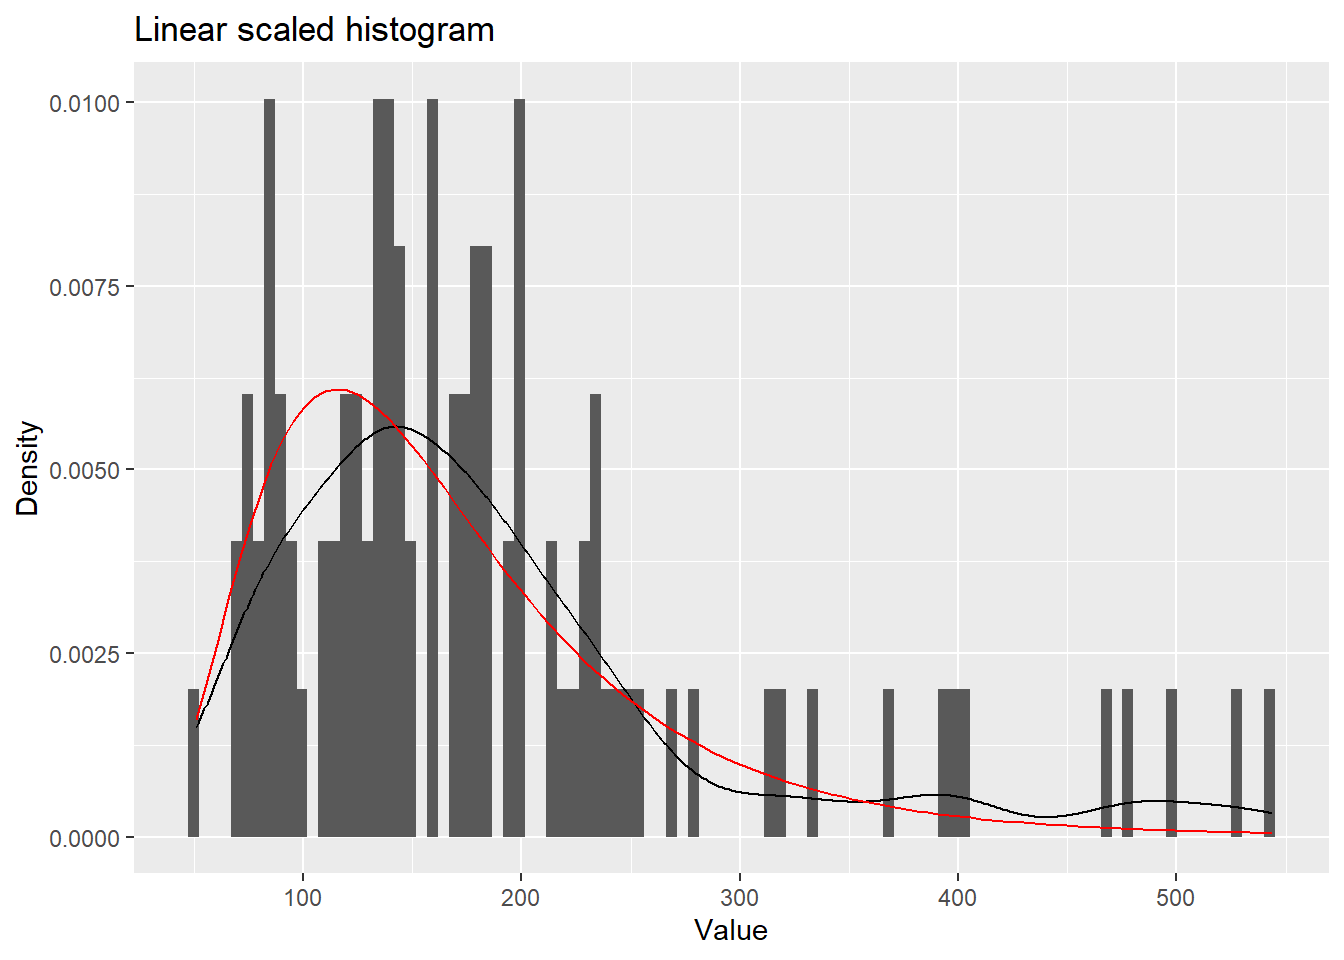
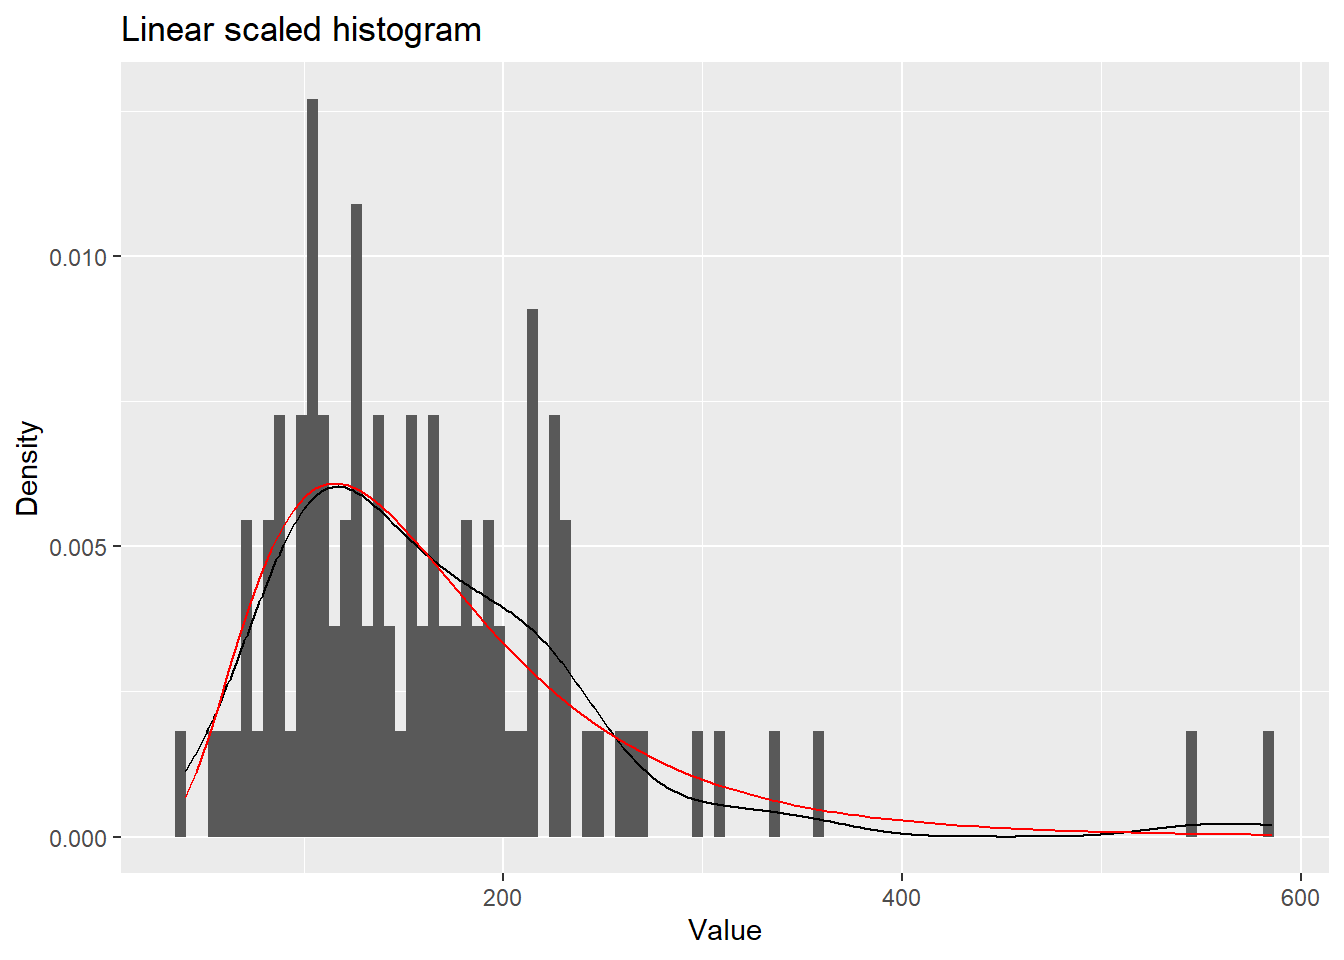
Modified the logarithmic scale histogram

diff --git a/Exercise1_ptB.html b/Exercise1_ptB.html
@@ -106,8 +106,8 @@ pre > code.sourceCode > span > a:first-child::before { text-decoration: underlin
 <div class="cell">
 <div class="sourceCode cell-code" id="cb2"><pre class="sourceCode r code-with-copy"><code class="sourceCode r"><span id="cb2-1"><a href="#cb2-1" aria-hidden="true" tabindex="-1"></a>sample <span class="ot">=</span> <span class="fu">rlnorm</span>(<span class="dv">100</span>, <span class="at">meanlog =</span> <span class="dv">5</span>, <span class="at">sdlog =</span> <span class="fl">0.5</span>)</span></code><button title="Copy to Clipboard" class="code-copy-button"><i class="bi"></i></button></pre></div>
 </div>
-<p>The mean of the sampled data is 185.1983996.</p>
-<p>The standard deviation of the sampled data is 104.2238982.</p>
+<p>The mean of the sampled data is 163.6318704.</p>
+<p>The standard deviation of the sampled data is 85.8959632.</p>
 </section>
 <section id="making-the-plots" class="level2">
 <h2 class="anchored" data-anchor-id="making-the-plots">Making the plots</h2>
@@ -135,29 +135,31 @@ pre > code.sourceCode > span > a:first-child::before { text-decoration: underlin
 </div>
 <p><strong>Logarithmic scale</strong></p>
 <div class="cell">
-<div class="sourceCode cell-code" id="cb5"><pre class="sourceCode r code-with-copy"><code class="sourceCode r"><span id="cb5-1"><a href="#cb5-1" aria-hidden="true" tabindex="-1"></a><span class="fu">ggplot</span>(df, <span class="fu">aes</span>(sample)) <span class="sc">+</span></span>
-<span id="cb5-2"><a href="#cb5-2" aria-hidden="true" tabindex="-1"></a>  <span class="fu">geom_histogram</span>(<span class="at">bins =</span> <span class="dv">100</span>, <span class="fu">aes</span>(<span class="at">y=</span><span class="fu">after_stat</span>(density))) <span class="sc">+</span> </span>
-<span id="cb5-3"><a href="#cb5-3" aria-hidden="true" tabindex="-1"></a>  <span class="fu">ggtitle</span>(<span class="st">"Logarithmic scaled histogram"</span>) <span class="sc">+</span> </span>
-<span id="cb5-4"><a href="#cb5-4" aria-hidden="true" tabindex="-1"></a>  <span class="fu">xlab</span>(<span class="st">"Value"</span>) <span class="sc">+</span> <span class="fu">ylab</span>(<span class="st">"Density"</span>) <span class="sc">+</span> </span>
-<span id="cb5-5"><a href="#cb5-5" aria-hidden="true" tabindex="-1"></a>  <span class="fu">annotation_logticks</span>(<span class="at">sides=</span><span class="st">'b'</span>) <span class="sc">+</span></span>
-<span id="cb5-6"><a href="#cb5-6" aria-hidden="true" tabindex="-1"></a>  <span class="fu">scale_x_continuous</span>(<span class="at">trans=</span><span class="st">'log'</span>)</span></code><button title="Copy to Clipboard" class="code-copy-button"><i class="bi"></i></button></pre></div>
+<div class="sourceCode cell-code" id="cb5"><pre class="sourceCode r code-with-copy"><code class="sourceCode r"><span id="cb5-1"><a href="#cb5-1" aria-hidden="true" tabindex="-1"></a>df<span class="sc">$</span>logCounts <span class="ot">&lt;-</span> <span class="fu">log10</span>(sample)</span></code><button title="Copy to Clipboard" class="code-copy-button"><i class="bi"></i></button></pre></div>
+</div>
+<div class="cell">
+<div class="sourceCode cell-code" id="cb6"><pre class="sourceCode r code-with-copy"><code class="sourceCode r"><span id="cb6-1"><a href="#cb6-1" aria-hidden="true" tabindex="-1"></a><span class="fu">ggplot</span>(df, <span class="fu">aes</span>(logCounts)) <span class="sc">+</span></span>
+<span id="cb6-2"><a href="#cb6-2" aria-hidden="true" tabindex="-1"></a>  <span class="fu">geom_histogram</span>(<span class="at">bins =</span> <span class="dv">100</span>) <span class="sc">+</span> </span>
+<span id="cb6-3"><a href="#cb6-3" aria-hidden="true" tabindex="-1"></a>  <span class="fu">ggtitle</span>(<span class="st">"Logarithmic scaled histogram"</span>) <span class="sc">+</span> </span>
+<span id="cb6-4"><a href="#cb6-4" aria-hidden="true" tabindex="-1"></a>  <span class="fu">xlab</span>(<span class="st">"Value"</span>) <span class="sc">+</span> <span class="fu">ylab</span>(<span class="st">"Count"</span>) <span class="sc">+</span> </span>
+<span id="cb6-5"><a href="#cb6-5" aria-hidden="true" tabindex="-1"></a>  <span class="fu">annotation_logticks</span>(<span class="at">sides=</span><span class="st">'b'</span>)</span></code><button title="Copy to Clipboard" class="code-copy-button"><i class="bi"></i></button></pre></div>
 <div class="cell-output-display">
-<p><img src="Exercise1_ptB_files/figure-html/unnamed-chunk-5-1.png" class="img-fluid" width="672"></p>
+<p><img src="Exercise1_ptB_files/figure-html/unnamed-chunk-6-1.png" class="img-fluid" width="672"></p>
 </div>
 </div>
 </section>
 <section id="violin-plot" class="level3">
 <h3 class="anchored" data-anchor-id="violin-plot">Violin Plot</h3>
 <div class="cell">
-<div class="sourceCode cell-code" id="cb6"><pre class="sourceCode r code-with-copy"><code class="sourceCode r"><span id="cb6-1"><a href="#cb6-1" aria-hidden="true" tabindex="-1"></a><span class="fu">ggplot</span>(df, <span class="fu">aes</span>(sample, <span class="dv">1</span>)) <span class="sc">+</span></span>
-<span id="cb6-2"><a href="#cb6-2" aria-hidden="true" tabindex="-1"></a>  <span class="fu">geom_violin</span>() <span class="sc">+</span> </span>
-<span id="cb6-3"><a href="#cb6-3" aria-hidden="true" tabindex="-1"></a>  <span class="fu">ggtitle</span>(<span class="st">"Violin plot"</span>) <span class="sc">+</span> </span>
-<span id="cb6-4"><a href="#cb6-4" aria-hidden="true" tabindex="-1"></a>  <span class="fu">xlab</span>(<span class="st">"Value"</span>) <span class="sc">+</span> <span class="fu">ylab</span>(<span class="st">"Frequency"</span>) <span class="sc">+</span> </span>
-<span id="cb6-5"><a href="#cb6-5" aria-hidden="true" tabindex="-1"></a>  <span class="fu">geom_boxplot</span>(<span class="at">width =</span> <span class="fl">0.1</span>) <span class="sc">+</span> </span>
-<span id="cb6-6"><a href="#cb6-6" aria-hidden="true" tabindex="-1"></a>  <span class="fu">theme</span>(<span class="at">axis.text.y =</span> <span class="fu">element_blank</span>(),</span>
-<span id="cb6-7"><a href="#cb6-7" aria-hidden="true" tabindex="-1"></a>        <span class="at">axis.ticks.y =</span> <span class="fu">element_blank</span>())</span></code><button title="Copy to Clipboard" class="code-copy-button"><i class="bi"></i></button></pre></div>
+<div class="sourceCode cell-code" id="cb7"><pre class="sourceCode r code-with-copy"><code class="sourceCode r"><span id="cb7-1"><a href="#cb7-1" aria-hidden="true" tabindex="-1"></a><span class="fu">ggplot</span>(df, <span class="fu">aes</span>(sample, <span class="dv">1</span>)) <span class="sc">+</span></span>
+<span id="cb7-2"><a href="#cb7-2" aria-hidden="true" tabindex="-1"></a>  <span class="fu">geom_violin</span>() <span class="sc">+</span> </span>
+<span id="cb7-3"><a href="#cb7-3" aria-hidden="true" tabindex="-1"></a>  <span class="fu">ggtitle</span>(<span class="st">"Violin plot"</span>) <span class="sc">+</span> </span>
+<span id="cb7-4"><a href="#cb7-4" aria-hidden="true" tabindex="-1"></a>  <span class="fu">xlab</span>(<span class="st">"Value"</span>) <span class="sc">+</span> <span class="fu">ylab</span>(<span class="st">"Frequency"</span>) <span class="sc">+</span> </span>
+<span id="cb7-5"><a href="#cb7-5" aria-hidden="true" tabindex="-1"></a>  <span class="fu">geom_boxplot</span>(<span class="at">width =</span> <span class="fl">0.1</span>) <span class="sc">+</span> </span>
+<span id="cb7-6"><a href="#cb7-6" aria-hidden="true" tabindex="-1"></a>  <span class="fu">theme</span>(<span class="at">axis.text.y =</span> <span class="fu">element_blank</span>(),</span>
+<span id="cb7-7"><a href="#cb7-7" aria-hidden="true" tabindex="-1"></a>        <span class="at">axis.ticks.y =</span> <span class="fu">element_blank</span>())</span></code><button title="Copy to Clipboard" class="code-copy-button"><i class="bi"></i></button></pre></div>
 <div class="cell-output-display">
-<p><img src="Exercise1_ptB_files/figure-html/unnamed-chunk-6-1.png" class="img-fluid" width="672"></p>
+<p><img src="Exercise1_ptB_files/figure-html/unnamed-chunk-7-1.png" class="img-fluid" width="672"></p>
 </div>
 </div>
 </section>
